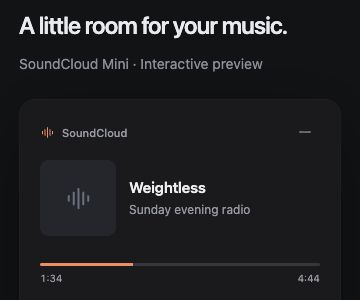
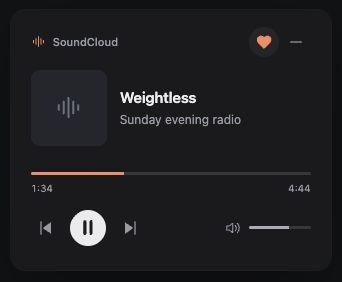
Add synchronized like control to mini-player

diff --git a/player.js b/player.js
@@ -8,6 +8,7 @@
     next: '<path d="M18 5v14"/><path d="m6 5 10 7-10 7Z" fill="currentColor" stroke="none"/>',
     volume: '<path d="M4 9h4l5-4v14l-5-4H4Z"/><path d="M17 8a6 6 0 0 1 0 8m3-11a10 10 0 0 1 0 14"/>',
     muted: '<path d="M4 9h4l5-4v14l-5-4H4Z"/><path d="m17 9 5 6m0-6-5 6"/>',
+    heart: '<path d="M20.8 4.6a5.4 5.4 0 0 0-7.6 0L12 5.8l-1.2-1.2a5.4 5.4 0 0 0-7.6 7.6L12 21l8.8-8.8a5.4 5.4 0 0 0 0-7.6Z"/>',
     hide: '<path d="M6 12h12"/>',
     pop: '<rect x="3" y="4" width="18" height="16" rx="3"/><rect x="11" y="11" width="7" height="6" rx="1" fill="currentColor" stroke="none"/>',
     wave: '<path d="M4 10v4m4-7v10m4-13v16m4-13v10m4-7v4"/>'
@@ -18,6 +19,10 @@
     * { box-sizing:border-box; }
     .mini { --ink:#f0f0f2; --muted:#a3a5ad; --accent:#ef986a; color:var(--ink); background:#1b1c20; font:13px/1.4 -apple-system,BlinkMacSystemFont,"Helvetica Neue",sans-serif; padding:15px 20px 19px; min-width:260px; width:100%; min-height:220px; }
     .top { display:flex; align-items:center; justify-content:space-between; margin-bottom:13px; height:20px; }
+    .top-actions { display:flex; align-items:center; gap:2px; }
+    .like svg { width:16px; height:16px; }
+    .like[aria-pressed="true"] { color:var(--accent); }
+    .like[aria-pressed="true"] svg { fill:currentColor; }
     .brand { display:flex; align-items:center; gap:7px; color:var(--muted); font-size:11px; font-weight:500; }
     .brand svg { width:15px; height:15px; color:var(--accent); }
     button { border:0; background:transparent; color:var(--muted); padding:0; width:30px; height:30px; display:inline-flex; align-items:center; justify-content:center; border-radius:50%; cursor:pointer; flex-shrink:0; }
@@ -55,7 +60,7 @@
     const host = doc.createElement('div');
     const shadow = host.attachShadow({ mode:'open' });
     shadow.innerHTML = `<style>${css}</style><section class="mini" aria-label="SoundCloud mini-player">
-      <header class="top"><span class="brand">${icon('wave')}SoundCloud</span><button class="hide" title="Hide player · music keeps playing" aria-label="Hide player">${icon('hide')}</button></header>
+      <header class="top"><span class="brand">${icon('wave')}SoundCloud</span><span class="top-actions"><button class="like" title="Like track" aria-label="Like track" aria-pressed="false" disabled>${icon('heart')}</button><button class="hide" title="Hide player · music keeps playing" aria-label="Hide player">${icon('hide')}</button></span></header>
       <div class="track"><div class="art">${icon('wave')}<img hidden alt="" referrerpolicy="no-referrer"></div><div class="info"><h1 class="title">Choose a track</h1><p class="artist">Start listening on SoundCloud</p></div></div>
       <div class="timeline"><input class="seek" type="range" min="0" max="1000" value="0" aria-label="Seek" disabled><div class="times"><span class="elapsed">0:00</span><span class="duration">0:00</span></div></div>
       <div class="bottom"><div class="transport"><button class="previous" aria-label="Previous track" title="Previous track">${icon('previous')}</button><button class="play" aria-label="Play" title="Play">${icon('play')}</button><button class="next" aria-label="Next track" title="Next track">${icon('next')}</button></div><div class="volume"><button class="mute" aria-label="Mute" title="Mute">${icon('volume')}</button><input class="level" type="range" min="0" max="100" value="50" aria-label="Volume"></div></div>
@@ -76,7 +81,7 @@
       } catch { notify('Couldn’t update playback. Check the SoundCloud tab.'); }
     }
     $('.hide').onclick = onHide;
-    for (const action of ['previous','next','play','mute']) $('.'+action).onclick = () => act(action);
+    for (const action of ['previous','next','play','mute','like']) $('.'+action).onclick = () => act(action);
     const seek = $('.seek');
     const level = $('.level');
     const editing = new Set();
@@ -118,7 +123,9 @@
         $('.mute').innerHTML = icon(state.muted ? 'muted' : 'volume');
         $('.mute').ariaLabel = $('.mute').title = state.muted ? 'Unmute' : 'Mute';
       }
-      for (const name of ['play','previous','next','mute']) $('.'+name).disabled = !state.controls?.[name];
+      $('.like').setAttribute('aria-pressed', String(!!state.liked));
+      $('.like').ariaLabel = $('.like').title = state.liked ? 'Unlike track' : 'Like track';
+      for (const name of ['play','previous','next','mute','like']) $('.'+name).disabled = !state.controls?.[name];
       seek.disabled = !state.controls?.seek || !(state.duration > 0);
       level.disabled = !state.controls?.volume;
       if (!editing.has(seek)) {

diff --git a/tests/preview.js b/tests/preview.js
@@ -1,7 +1,7 @@
 'use strict';
 const tracks = [
-  { title:'Weightless', artist:'Sunday evening radio', duration:284 },
-  { title:'A very long title for a very slow Sunday evening mix', artist:'After hours', duration:3723 }
+  { title:'Weightless', artist:'Sunday evening radio', duration:284, liked:false },
+  { title:'A very long title for a very slow Sunday evening mix', artist:'After hours', duration:3723, liked:true }
 ];
 let track = 0;
 let empty = false;
@@ -13,12 +13,13 @@ let pip;
 const status = document.querySelector('#status');
 const adapter = {
   read: () => ({ ...tracks[track], title:empty ? '' : tracks[track].title, artist:empty ? '' : tracks[track].artist, artwork:'', elapsed:empty ? 0 : elapsed, duration:empty ? 0 : tracks[track].duration, playing:!empty && playing, volume, muted,
-    controls:Object.fromEntries(['play','previous','next','mute','seek','volume'].map(k=>[k,!empty])) }),
+    controls:Object.fromEntries(['play','previous','next','mute','seek','volume','like'].map(k=>[k,!empty])) }),
   play() { playing = !playing; status.textContent = playing ? 'Playing (demo)' : 'Paused (demo)'; },
   previous() { track = (track + 1) % tracks.length; elapsed = 0; },
   next() { track = (track + 1) % tracks.length; elapsed = 0; },
   seek(value) { elapsed = value * tracks[track].duration; },
   volume(value) { volume = value; muted = value === 0; },
+  like() { tracks[track].liked = !tracks[track].liked; },
   mute() { muted = !muted; }
 };
 const preview = SCMiniPlayer.mount(document, adapter, () => {
@@ -49,10 +50,21 @@ document.querySelector('#check').onclick = () => {
   const results = [];
   const assert = (condition, name) => { results.push(`${condition ? 'PASS' : 'FAIL'} ${name}`); };
   const $ = selector => preview.host.shadowRoot.querySelector(selector);
+  tracks[0].liked = false; tracks[1].liked = true;
   empty = false; playing = true; track = 0; elapsed = 94; preview.update();
   $('.play').click(); preview.update();
   assert(!playing && $('.play').getAttribute('aria-label') === 'Play', 'Play/pause updates the adapter and accessible label');
+  const heart = $('.like');
+  assert(heart && heart.getAttribute('aria-pressed') === 'false', 'Heart starts unselected for an unliked track');
+  heart?.click(); preview.update();
+  assert(tracks[0].liked && heart?.getAttribute('aria-pressed') === 'true' && heart?.getAttribute('aria-label') === 'Unlike track', 'Heart likes the current track and updates its label');
+  heart?.click(); preview.update();
+  assert(!tracks[0].liked && heart?.getAttribute('aria-pressed') === 'false', 'Heart can remove a like');
+  tracks[0].liked = true; preview.update();
+  assert(heart?.getAttribute('aria-pressed') === 'true', 'Heart reflects changes made outside the player');
+  tracks[0].liked = false; preview.update();
   $('.next').click(); preview.update();
+  assert(heart?.getAttribute('aria-pressed') === 'true', 'Heart follows the new track’s liked state');
   assert($('.title').textContent.includes('A very long title') && $('.duration').textContent === '1:02:03', 'Track changes refresh title and long duration');
   $('.seek').value = 500; $('.seek').dispatchEvent(new Event('change')); preview.update();
   assert(elapsed === 1861.5, 'Seek sends the correct fraction to the adapter');
@@ -64,7 +76,7 @@ document.querySelector('#check').onclick = () => {
   muted = false; $('.mute').click(); preview.update();
   assert(muted && $('.mute').getAttribute('aria-label') === 'Unmute', 'Mute label follows playback state');
   empty = true; preview.update();
-  assert($('.play').disabled && $('.seek').disabled && $('.title').textContent === 'Choose a track', 'Empty state disables unavailable controls');
+  assert($('.play').disabled && $('.seek').disabled && heart?.disabled && $('.title').textContent === 'Choose a track', 'Empty state disables unavailable controls');
   empty = false; playing = true; preview.update(); $('.hide').click();
   assert(playing && preview.host.hidden, 'Hide keeps playback running');
   preview.host.hidden = false;

diff --git a/tests/live-checks.js b/tests/live-checks.js
@@ -17,11 +17,14 @@
   const duration = () => {const e=q('.playbackTimeline__duration');return SCMiniCore.parseTime(e?.querySelector('[aria-hidden="true"]')?.textContent || e?.textContent) || 0;};
   start.onclick = async () => {
     start.disabled = true; result.textContent = '';
-    const log = (ok,text) => result.textContent += `${ok ? 'PASS' : 'FAIL'} ${text}\n`;
+    let passed = 0, total = 0;
+    const log = (ok,text) => { total++; if(ok) passed++; result.textContent += `${ok ? 'PASS' : 'FAIL'} ${text}\n`; };
     const oldVolume = volume();
     const oldTime = time();
     const oldTitle = name();
     let ui;
+    let originalLike;
+    let nativeLike;
     try {
       const launcher = q('#sc-mini-launcher')?.shadowRoot.querySelector('button');
       if (!documentPictureInPicture.window) launcher.click();
@@ -42,6 +45,17 @@
       log(await wait(()=>Math.abs(volume()-.3)<.03),'Volume reaches 30% on SoundCloud');
       $('.mute').click(); log(await wait(()=>volume()===0),'Mute affects SoundCloud');
       await delay(500); $('.mute').click(); log(await wait(()=>volume()>0),'Unmute affects SoundCloud');
+      nativeLike = q('.playbackSoundBadge .sc-button-like');
+      if (!nativeLike || !$('.like') || $('.like').disabled) throw new Error('Like control is unavailable');
+      const liked = () => nativeLike.classList.contains('sc-button-selected');
+      originalLike = liked();
+      $('.like').click();
+      log(await wait(()=>liked()!==originalLike && $('.like').getAttribute('aria-pressed')===String(liked())), 'Heart toggles the real SoundCloud like and syncs');
+      await delay(1000);
+      if(liked()!==originalLike) nativeLike.click();
+      log(await wait(()=>liked()===originalLike && $('.like').getAttribute('aria-pressed')===String(originalLike)), 'Like restored in SoundCloud and reflected in the player');
+      await delay(1000);
+      log(liked()===originalLike, 'Original like state remains restored');
       const before = name();
       if(!$('.next').disabled){
         $('.next').click(); log(await wait(()=>name()!==before),'Next changes the live track');
@@ -58,10 +72,15 @@
       log(playing(),'Hide preserves real playback');
       if(playing()) q('.playControls__play').click();
       log(await wait(()=>!playing()),'Playback left paused');
+      title.textContent = `Live checks complete: ${passed}/${total} passed`;
       result.textContent += 'Finished. Reopen Mini-player to verify restoration.\n';
     } catch(error) {
+      title.textContent = 'Live checks stopped with an error';
       result.textContent += `ERROR ${error.message}\n`;
       if(playing()) q('.playControls__play').click();
-    } finally { start.disabled=false; }
+    } finally {
+      if(originalLike !== undefined && name()===oldTitle && nativeLike?.classList.contains('sc-button-selected')!==originalLike) nativeLike.click();
+      start.disabled=false;
+    }
   };
 })();

diff --git a/content.js b/content.js
@@ -5,6 +5,7 @@
   const q = selector => document.querySelector(selector);
   const selectors = {
     play: '.playControls__play', previous: '.playControls__prev', next: '.playControls__next',
+    like: '.playbackSoundBadge .sc-button-like',
     mute: '.volume__button', seek: '.playbackTimeline__progressWrapper', volume: '.volume__sliderWrapper'
   };
   function text(selector) {
@@ -46,6 +47,7 @@
         artist: text('.playbackSoundBadge__lightLink'),
         artwork: artworkURL(art?.currentSrc || art?.src || (art ? getComputedStyle(art).backgroundImage : '')),
         playing: !!q('.playControls__play.playing, .playControls__play[aria-label="Pause current"]'),
+        liked: !!q(selectors.like)?.classList.contains('sc-button-selected') || q(selectors.like)?.getAttribute('aria-pressed') === 'true',
         elapsed: parseTime(text('.playbackTimeline__timePassed')) || 0,
         duration: parseTime(text('.playbackTimeline__duration')) || 0,
         volume: Number.isFinite(volume) ? clamp(volume, 0, 1) : 0,
@@ -54,6 +56,7 @@
       };
     },
     play: () => click('play'), previous: () => click('previous'), next: () => click('next'), mute: () => click('mute'),
+    like: () => click('like'),
     seek: value => slide('seek', value), volume: value => slide('volume', value)
   };
   const host = document.createElement('div');

diff --git a/tests/preview.html b/tests/preview.html
@@ -6,4 +6,4 @@ html{color-scheme:dark;background:#111215}body{margin:0;min-height:100vh;display
 <header><h1>A little room for your music.</h1><p>SoundCloud Mini · Interactive preview</p></header>
 <footer><button id="pop">Pop out</button><button id="empty">Toggle empty state</button><button id="check">Check controls</button></footer>
 <p id="status">Sample track. No audio plays in this preview.</p><pre id="results"></pre>
-<script src="../core.js?v=2"></script><script src="../player.js?v=2"></script><script src="preview.js?v=2"></script></html>
+<script src="../core.js?v=5"></script><script src="../player.js?v=5"></script><script src="preview.js?v=5"></script></html>

diff --git a/README.md b/README.md
@@ -1,6 +1,6 @@
 # SoundCloud Mini
 
-A compact, charcoal SoundCloud controller for desktop Chromium browsers, designed for Dia. Artwork, track and artist, play/pause, previous/next, seeking, volume, and a hide button.
+A compact, charcoal SoundCloud controller for desktop Chromium browsers, designed for Dia. Artwork, track and artist, play/pause, previous/next, seeking, volume, a like/unlike heart, and a hide button.
 
 ## Install in Dia
 
@@ -11,6 +11,8 @@ A compact, charcoal SoundCloud controller for desktop Chromium browsers, designe
 5. Start a track, then click **Mini-player** above SoundCloud’s bottom playback bar.
 
 The window stays on top of other apps using the browser’s Document Picture-in-Picture API. Drag its title bar to move it and resize it from its edges. The browser supplies the title bar and controls its position.
+
+Click the **heart** to like or unlike the current track. A filled orange heart means it is liked; it stays in sync with SoundCloud as you change tracks. Sign in through SoundCloud if prompted.
 
 Click **−**, press **Escape** inside the player, or close the player window to hide it. Playback continues in the original tab. Return to SoundCloud and click **Mini-player** to restore it. The extension icon also contains these instructions and a link to SoundCloud.
 
@@ -30,9 +32,9 @@ Run helper tests with `npm test`. Open `tests/preview.html` for an interactive d
 
 For a live check after installation: play/pause, previous/next, seek, change volume, change tracks in the original tab, hide without interrupting playback, restore, and switch to another app. Check both long track titles and a long mix.
 
-Verified in the installed Dia browser on October 4, 2026: five Node tests, eight interactive component checks, and thirteen live SoundCloud checks passed. Live checks cover artwork, metadata, play/pause, seeking, precise volume, mute/unmute, next/previous, and hiding without stopping playback. The final test leaves playback paused.
+Verified in the installed Dia browser on October 4, 2026: five Node tests, thirteen interactive component checks, and sixteen live SoundCloud checks passed. Live checks cover artwork, metadata, play/pause, seeking, precise volume, mute/unmute, next/previous, like/unlike state synchronization, and hiding without stopping playback. The final test leaves playback paused.
 
-For explicit live testing, run `node tests/toggle-live-checks.cjs --enable`, reload the extension in Dia, then reload SoundCloud. Click **Run live checks** in the temporary panel. This changes playback, seek position, volume, and the current queue track while testing; it attempts to restore the starting track, position, and volume and leaves playback paused. Use only when you are ready for playback to change. Run `node tests/toggle-live-checks.cjs --disable` and reload both the extension and SoundCloud afterward. The normal manifest never loads the test panel.
+For explicit live testing, run `node tests/toggle-live-checks.cjs --enable`, reload the extension in Dia, then reload SoundCloud. Click **Run live checks** in the temporary panel. This changes playback, seek position, volume, and the current queue track and its like state while testing; it attempts to restore the starting track, position, volume, and like state and leaves playback paused. Use only when you are ready for playback to change. Run `node tests/toggle-live-checks.cjs --disable` and reload both the extension and SoundCloud afterward. The normal manifest never loads the test panel.
 
 The preview and tests require no third-party dependencies. Serve the project on localhost to test `tests/preview.html`. No server is needed for normal extension use.
 
